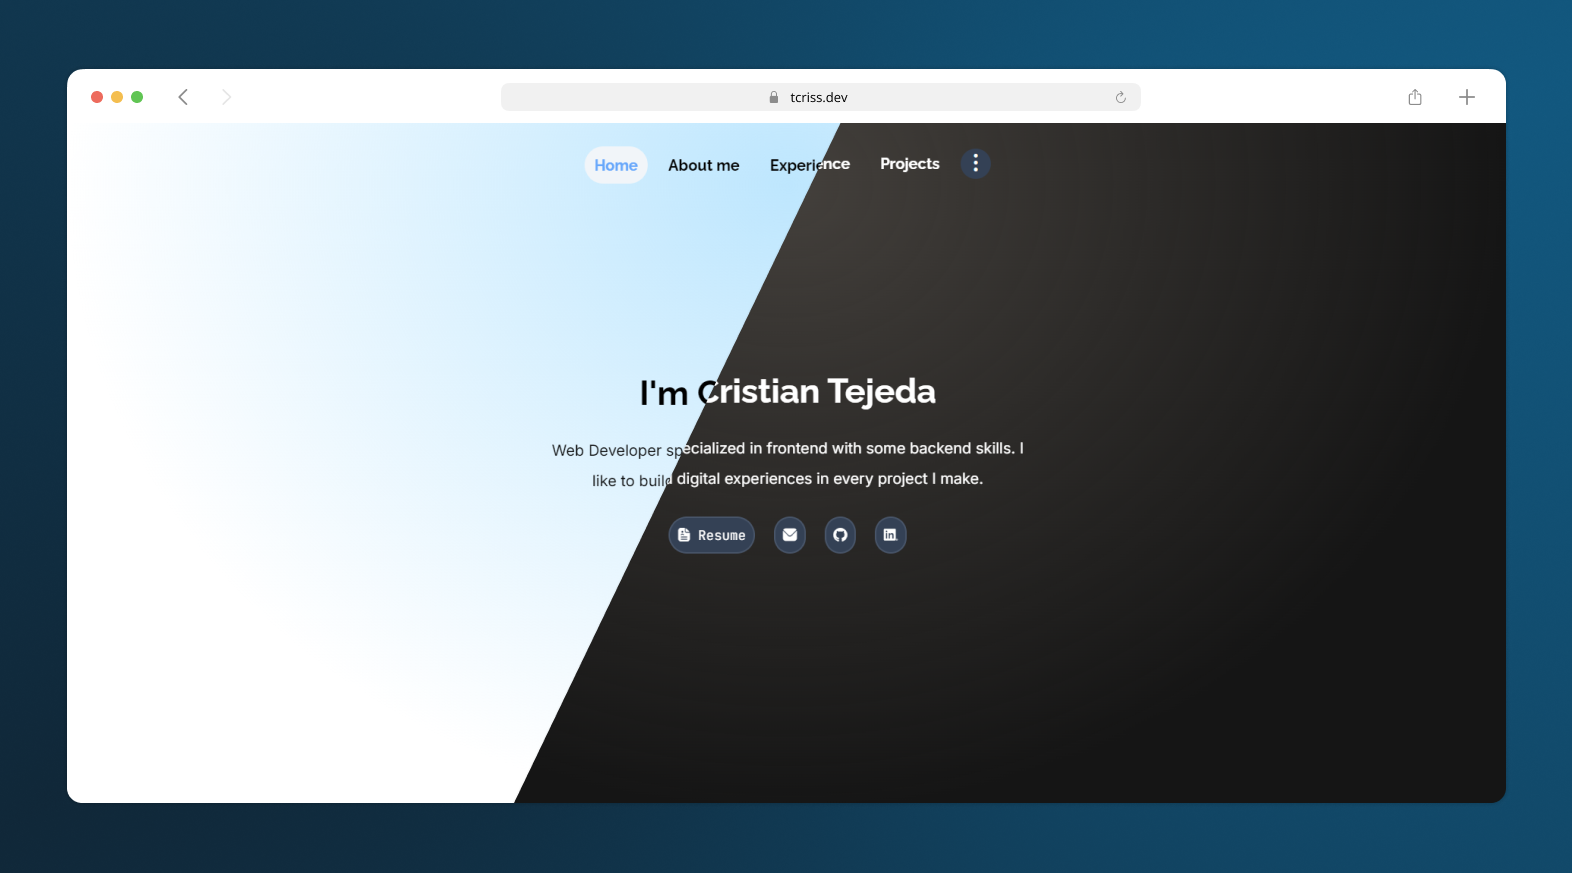
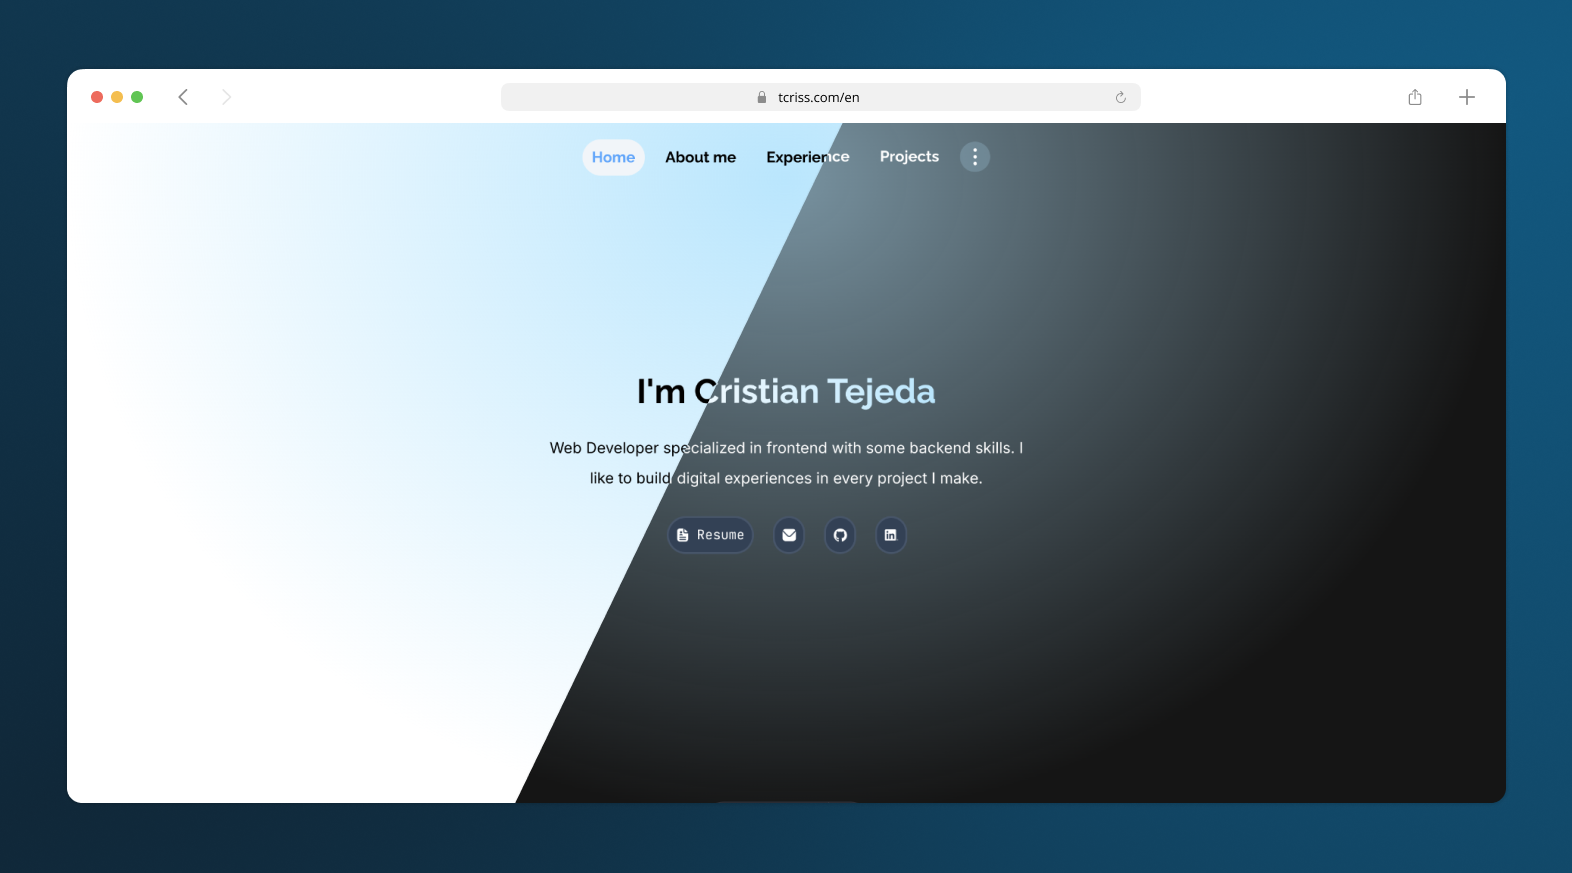
refactor: UI improvements and info updates

Changed region(s): [[0.3429, 0.0928, 0.8728, 0.7732], [0.374, 0.1546, 0.4676, 0.2165]]

diff --git a/src/scripts/nav-bar.js b/src/scripts/nav-bar.js
@@ -4,14 +4,14 @@ document.addEventListener('scroll', () => {
     if (document.body.scrollTop > 5 || document.documentElement.scrollTop > 5) {
         navbar.classList.add('shadow-[-10px_-10px_30px_4px_rgba(0,0,0,0.1),_10px_10px_30px_4px_rgba(45,78,255,0.15)]');
         navbar.classList.add('bg-white/80');
-        navbar.classList.add('dark:bg-slate-700/80');
-        navbar.classList.add('backdrop-blur-[20px]');
-        navbar.classList.add('dark:border-gray-700');
+        navbar.classList.add('dark:bg-sky-200/20');
+        navbar.classList.add('backdrop-blur-[60px]');
+        navbar.classList.add('dark:border-sky-200/10');
     } else {
         navbar.classList.remove('shadow-[-10px_-10px_30px_4px_rgba(0,0,0,0.1),_10px_10px_30px_4px_rgba(45,78,255,0.15)]');
         navbar.classList.remove('bg-white/80');
-        navbar.classList.remove('dark:bg-slate-700/80');
-        navbar.classList.remove('backdrop-blur-[20px]');
-        navbar.classList.remove('dark:border-gray-700');
+        navbar.classList.remove('dark:bg-sky-200/20');
+        navbar.classList.remove('backdrop-blur-[60px]');
+        navbar.classList.remove('dark:border-sky-200/10');
     }
 });

diff --git a/src/scripts/scroll-spy.js b/src/scripts/scroll-spy.js
@@ -9,12 +9,12 @@ const callback = (entries) => {
         if (item.getAttribute("aria-label") == entry.target.id) {
           item.classList.add("text-blue-400");
           item.classList.add("bg-slate-100");
-          item.classList.add("dark:bg-slate-600");
+          item.classList.add("dark:bg-sky-200/50");
           item.classList.add("dark:text-white/80");
         } else {
           item.classList.remove("text-blue-400");
           item.classList.remove("bg-slate-100");
-          item.classList.remove("dark:bg-slate-600");
+          item.classList.remove("dark:bg-sky-200/50");
           item.classList.remove("dark:text-white/80");
         }
       });
